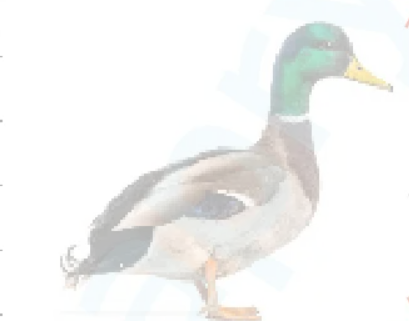
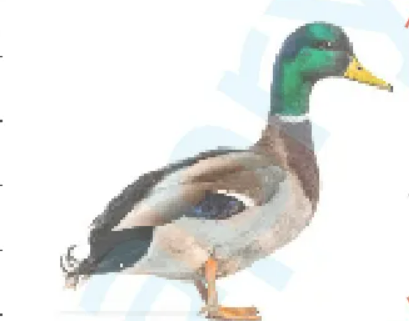
jugando con estampado

Changed region(s): [[0.1467, 0.0623, 0.9682, 1.0], [0.9682, 0.0312, 1.0, 0.0935], [0.9976, 0.9034, 1.0, 0.9657]]

diff --git a/node_js_api_mysql/server.js b/node_js_api_mysql/server.js
@@ -1995,12 +1995,12 @@ app.post('/create-stamp', fileUpload(), async (req, res) => {
   }
 
   try{
-    fs.writeFileSync(archivoNombre, stampFile.data);
+    await fs.writeFileSync(archivoNombre, stampFile.data);
     await modifyImage(archivoNombre);
     console.log('File written successfully', archivoNombre);
   }catch(err){
-    console.error('create-pdf error:', err);
-    return res.status(500).json({ error: 'failed to save or process pdf' });
+    console.error('create-stamp error:', err);
+    return res.status(500).json({ error: 'failed to save or process stamp' });
   }
 });
 
@@ -2017,6 +2017,8 @@ function emptyOrRows(rows) {
 }
 
 async function modifyImage(imageName){
+  console.log("Iniciado modificacion de stamp");
+
   // open a file called "lenna.png"
   const image = await Jimp.read(imageName);
 
@@ -2025,9 +2027,20 @@ async function modifyImage(imageName){
       if (err) throw err;
   })*/
 
-  await image.opacity(0.3) //.resize(256, 256);
+  await image.opacity(0.7);
+  //await image.resize(256, 256);
+  //await image.color('0xFFFFFF00');
 
   await image.write(imageName); // save
+
+  /*Jimp.read(imageName, function (err, img) {
+        if (err) throw err;
+        img.resize(256, 256)
+             .opacity(0.7)                 
+             .write(imageName); 
+  });*/
+
+  console.log("Finalizado modificacion de stamp");
 }
 
 //---------------------

diff --git a/cliente_api_mysql/pdfs/createStamp.js b/cliente_api_mysql/pdfs/createStamp.js
@@ -60,6 +60,8 @@ async function sendData(){
         console.log(result);
     }
 
+    alert("prueba");
+
     window.location.href = "table.html";
     }
 }